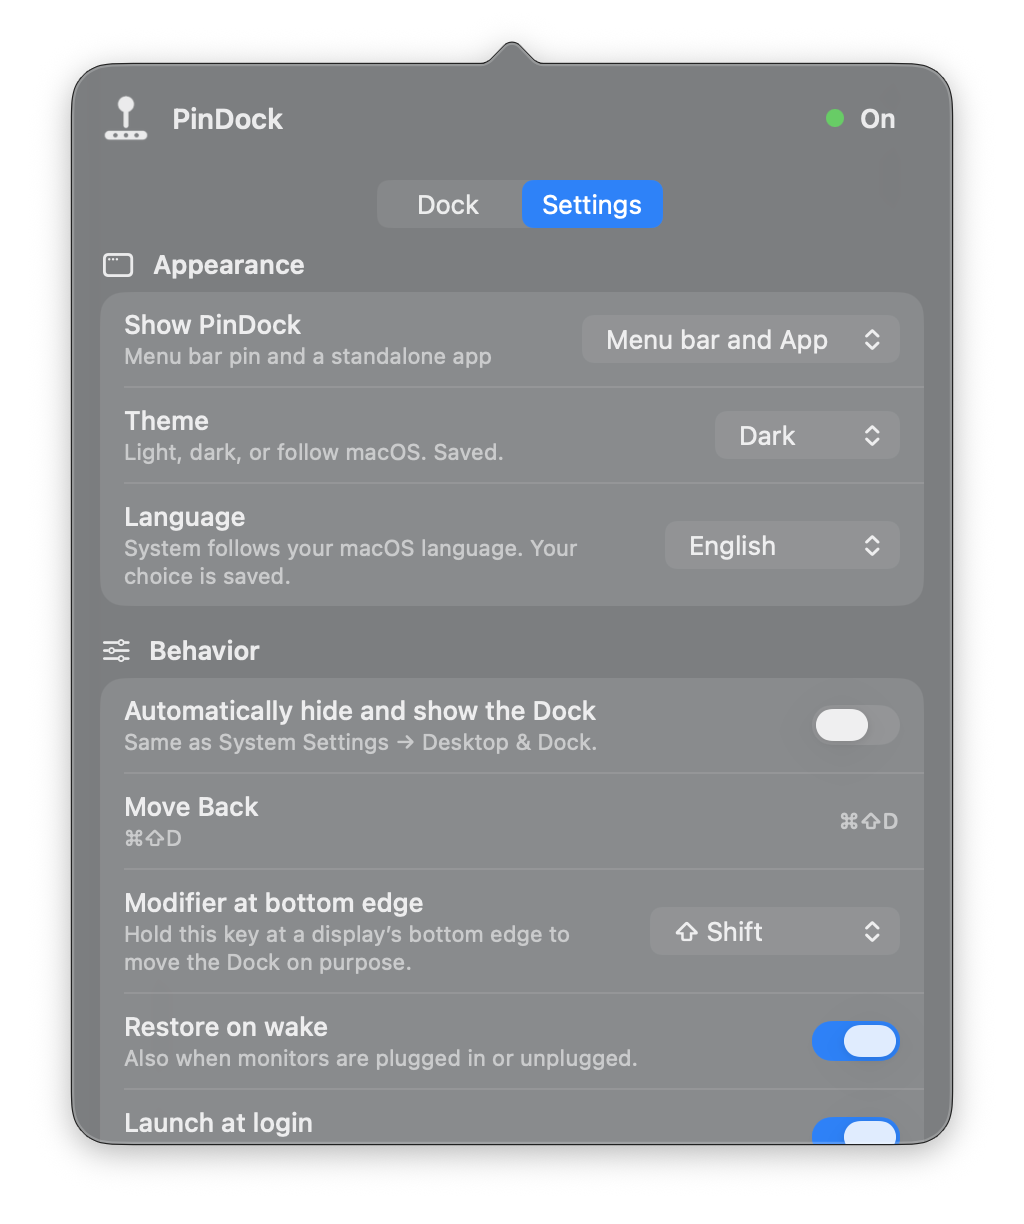
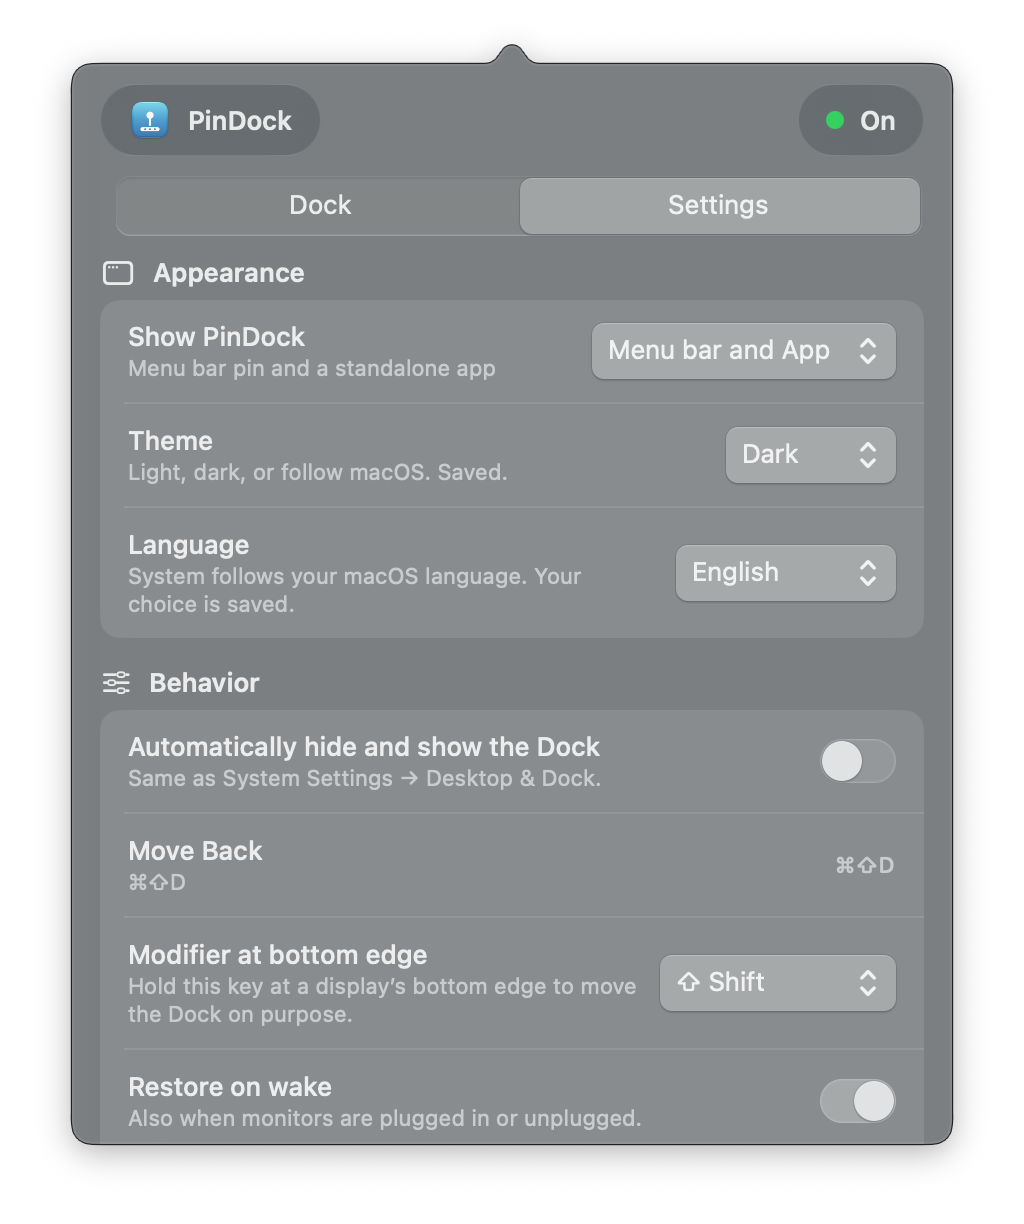
Release 1.1.1
Per-configuration Dock defaults, matching menu-bar and window controls,
and refreshed README screenshots.

diff --git a/Sources/PinDock/AppDelegate.swift b/Sources/PinDock/AppDelegate.swift
@@ -9,6 +9,8 @@ final class AppDelegate: NSObject, NSApplicationDelegate, NSPopoverDelegate, NSW
     private var mainWindow: NSWindow?
     private var popoverLocalClickMonitor: Any?
     private var popoverGlobalClickMonitor: Any?
+    /// README screenshots only. Keeps the popover open while we capture.
+    private var uiPreviewMode = false
 
     /// Last known display IDs — used so we only auto-restore on real plug/unplug.
     private var knownDisplayIDs: Set<UInt32> = []
@@ -43,12 +45,54 @@ final class AppDelegate: NSObject, NSApplicationDelegate, NSPopoverDelegate, NSW
             scheduleLoginRestore()
         }
 
-        // Maintainer helper: `PinDock --ui-preview` opens the panel as a window for screenshots.
-        // Engine is started above so the UI matches a real session (no false banners).
-        if CommandLine.arguments.contains("--ui-preview") {
+        // Screenshot helpers. Normal launch never takes these paths.
+        //   --ui-preview-popover / --ui-preview-popover-settings / --ui-demo-menubar
+        //   --ui-preview-window / --ui-demo-window
+        let args = CommandLine.arguments
+        if args.contains("--ui-preview-popover")
+            || args.contains("--ui-preview-popover-settings")
+            || args.contains("--ui-demo-menubar") {
+            uiPreviewMode = true
+            NSApp.setActivationPolicy(.accessory)
+            AppState.shared.refresh()
+            setupStatusItem()
+            setupPopover()
+            updateStatusIcon()
+            let wantSettings = args.contains("--ui-preview-popover-settings")
+            let demo = args.contains("--ui-demo-menubar")
+            DispatchQueue.main.asyncAfter(deadline: .now() + 0.5) { [weak self] in
+                guard let self, let button = self.statusItem?.button else { return }
+                self.showPopover(relativeTo: button)
+                if wantSettings {
+                    DispatchQueue.main.asyncAfter(deadline: .now() + 0.4) {
+                        NotificationCenter.default.post(name: .pindockPreviewTab, object: "settings")
+                    }
+                }
+                if demo { self.runMenubarDemo() }
+            }
+            return
+        }
+        if args.contains("--ui-preview") || args.contains("--ui-preview-settings") {
+            uiPreviewMode = true
             NSApp.setActivationPolicy(.regular)
             AppState.shared.refresh()
             showUIPreviewWindow()
+            return
+        }
+        if args.contains("--ui-preview-window") || args.contains("--ui-demo-window") {
+            uiPreviewMode = true
+            NSApp.setActivationPolicy(.regular)
+            AppState.shared.refresh()
+            showMainWindow()
+            if let window = mainWindow {
+                var frame = window.frame
+                frame.size = Self.defaultWindowSize
+                window.setFrame(frame, display: true)
+                window.center()
+            }
+            if args.contains("--ui-demo-window") {
+                runWindowDemo()
+            }
             return
         }
 
@@ -140,6 +184,7 @@ final class AppDelegate: NSObject, NSApplicationDelegate, NSPopoverDelegate, NSW
     }
 
     func applicationDidResignActive(_ notification: Notification) {
+        if uiPreviewMode { return }
         popover?.performClose(nil)
     }
 
@@ -236,7 +281,40 @@ final class AppDelegate: NSObject, NSApplicationDelegate, NSPopoverDelegate, NSW
         // Do not NSApp.activate — that pulls PinDock to the foreground.
         popover?.show(relativeTo: button.bounds, of: button, preferredEdge: .minY)
         preparePopoverWindow()
-        installPopoverDismissMonitors()
+        if !uiPreviewMode {
+            installPopoverDismissMonitors()
+        }
+    }
+
+    private func runMenubarDemo() {
+        DispatchQueue.main.asyncAfter(deadline: .now() + 1.2) {
+            NotificationCenter.default.post(name: .pindockPreviewTab, object: "settings")
+        }
+        let scrollSteps: [(TimeInterval, String)] = [
+            (2.4, "behavior"),
+            (3.6, "permissions"),
+            (4.8, "updates"),
+            (6.0, "footer"),
+            (7.2, "appearance"),
+        ]
+        for (delay, section) in scrollSteps {
+            DispatchQueue.main.asyncAfter(deadline: .now() + delay) {
+                NotificationCenter.default.post(name: .pindockPreviewScroll, object: section)
+            }
+        }
+    }
+
+    private func runWindowDemo() {
+        let steps: [(TimeInterval, String)] = [
+            (1.4, "behavior"),
+            (3.0, "appearance"),
+            (4.6, "displays"),
+        ]
+        for (delay, pane) in steps {
+            DispatchQueue.main.asyncAfter(deadline: .now() + delay) {
+                NotificationCenter.default.post(name: .pindockPreviewPane, object: pane)
+            }
+        }
     }
 
     /// Keep the system bubble + arrow. Don’t steal key/activation from the front app.

diff --git a/Sources/PinDock/SettingsView.swift b/Sources/PinDock/SettingsView.swift
@@ -33,6 +33,10 @@ struct SettingsView: View {
         .onChange(of: state.menuBarOpenNonce) { _ in
             compactTab = .dock
         }
+        .onReceive(NotificationCenter.default.publisher(for: .pindockPreviewTab)) { note in
+            guard let raw = note.object as? String else { return }
+            compactTab = raw == "settings" ? .settings : .dock
+        }
         .onAppear {
             state.refresh()
             if state.autoCheckForUpdates {
@@ -53,25 +57,33 @@ struct SettingsView: View {
             .padding(.horizontal, 14)
             .padding(.top, 4)
             .padding(.bottom, 10)
-            ScrollView(.vertical, showsIndicators: false) {
-                VStack(alignment: .leading, spacing: 14) {
-                    if compactTab == .dock {
-                        if state.updateAvailable { updateBanner }
-                        if state.dockIsAway { moveBackBanner }
-                        if showsAccessibilityBanner { accessibilityBanner }
-                        pinDockEnableSection
-                        defaultSection
-                        allowListSection
-                    } else {
-                        appearanceSection
-                        behaviorSection
-                        permissionsSection
-                        updatesSection
-                        footer
+            ScrollViewReader { proxy in
+                ScrollView(.vertical, showsIndicators: false) {
+                    VStack(alignment: .leading, spacing: 14) {
+                        if compactTab == .dock {
+                            if state.updateAvailable { updateBanner }
+                            if state.dockIsAway { moveBackBanner }
+                            if showsAccessibilityBanner { accessibilityBanner }
+                            pinDockEnableSection
+                            defaultSection
+                            allowListSection
+                        } else {
+                            appearanceSection.id("appearance")
+                            behaviorSection.id("behavior")
+                            permissionsSection.id("permissions")
+                            updatesSection.id("updates")
+                            footer.id("footer")
+                        }
+                    }
+                    .padding(.horizontal, 14)
+                    .padding(.bottom, 14)
+                }
+                .onReceive(NotificationCenter.default.publisher(for: .pindockPreviewScroll)) { note in
+                    guard let id = note.object as? String else { return }
+                    withAnimation(.easeInOut(duration: 0.45)) {
+                        proxy.scrollTo(id, anchor: .top)
                     }
                 }
-                .padding(.horizontal, 14)
-                .padding(.bottom, 14)
             }
         }
         // Fixed size so the popover does not jump when switching Dock / Settings.

diff --git a/Sources/PinDock/MainWindowView.swift b/Sources/PinDock/MainWindowView.swift
@@ -5,7 +5,13 @@ import AppKit
 struct MainWindowView: View {
     @ObservedObject var state: AppState
     @Environment(\.colorScheme) private var colorScheme
-    @State private var pane: WindowPane = .general
+    @State private var pane: WindowPane = {
+        let args = CommandLine.arguments
+        if args.contains("--ui-preview-window") || args.contains("--ui-demo-window") {
+            return .displays
+        }
+        return .general
+    }()
 
     enum WindowPane: String, CaseIterable, Identifiable, Hashable {
         case general
@@ -87,6 +93,10 @@ struct MainWindowView: View {
         )
         .id(state.appLanguage)
         .animation(.easeInOut(duration: 0.15), value: sidebarExpanded)
+        .onReceive(NotificationCenter.default.publisher(for: .pindockPreviewPane)) { note in
+            guard let raw = note.object as? String, let next = WindowPane(rawValue: raw) else { return }
+            pane = next
+        }
     }
 
     private var titleBubble: some View {

diff --git a/README.md b/README.md
@@ -29,7 +29,7 @@
 ---
 
 <p align="center">
-  <img src="docs/assets/walkthrough-menubar.gif" width="360" alt="PinDock 1.1.0 — menu bar walkthrough">
+  <img src="docs/assets/walkthrough-menubar.gif" width="360" alt="PinDock 1.1.1 — menu bar walkthrough">
 </p>
 
 <p align="center">
@@ -37,9 +37,9 @@
 </p>
 
 <p align="center">
-  <img src="docs/assets/screenshot-popover.png" width="280" alt="PinDock 1.1.0 — menu bar Dock tab, dark">
+  <img src="docs/assets/screenshot-popover.png" width="280" alt="PinDock 1.1.1 — menu bar Dock tab, dark">
   &nbsp;
-  <img src="docs/assets/screenshot-popover-light.png" width="280" alt="PinDock 1.1.0 — menu bar Dock tab, light">
+  <img src="docs/assets/screenshot-popover-light.png" width="280" alt="PinDock 1.1.1 — menu bar Dock tab, light">
 </p>
 
 <p align="center">
@@ -47,9 +47,9 @@
 </p>
 
 <p align="center">
-  <img src="docs/assets/screenshot-settings.png" width="280" alt="PinDock 1.1.0 — menu bar Settings tab, dark">
+  <img src="docs/assets/screenshot-settings.png" width="280" alt="PinDock 1.1.1 — menu bar Settings tab, dark">
   &nbsp;
-  <img src="docs/assets/screenshot-settings-light.png" width="280" alt="PinDock 1.1.0 — menu bar Settings tab, light">
+  <img src="docs/assets/screenshot-settings-light.png" width="280" alt="PinDock 1.1.1 — menu bar Settings tab, light">
 </p>
 
 <p align="center">
@@ -57,7 +57,7 @@
 </p>
 
 <p align="center">
-  <img src="docs/assets/walkthrough-window.gif" width="720" alt="PinDock 1.1.0 — app window walkthrough">
+  <img src="docs/assets/walkthrough-window.gif" width="720" alt="PinDock 1.1.1 — app window walkthrough">
 </p>
 
 <p align="center">
@@ -65,7 +65,7 @@
 </p>
 
 <p align="center">
-  <img src="docs/assets/screenshot-window.png" width="680" alt="PinDock 1.1.0 — app window, dark">
+  <img src="docs/assets/screenshot-window.png" width="680" alt="PinDock 1.1.1 — app window, dark">
 </p>
 
 <p align="center">
@@ -73,7 +73,7 @@
 </p>
 
 <p align="center">
-  <img src="docs/assets/screenshot-window-light.png" width="680" alt="PinDock 1.1.0 — app window, light">
+  <img src="docs/assets/screenshot-window-light.png" width="680" alt="PinDock 1.1.1 — app window, light">
 </p>
 
 <p align="center">
@@ -100,7 +100,7 @@ PinDock keeps it where **you** want it — quietly, with no account and no ads.
 <h2 id="features">✨ Features</h2>
 
 - 🔒 **Lock** — soft‑blocks other displays so the Dock doesn’t jump  
-- 🏠 **Default display** — *Set as default* never moves the Dock by itself  
+- 🏠 **Default display** — remembered for each screen setup (MacBook alone, or with a monitor plugged in)  
 - ⇧ **Shift + edge** — intentional native Dock moves  
 - 🗺 **Display map** — click a screen to move the Dock there  
 - ↩ **Move Back** — button or **⌘⇧D** to the default display  
